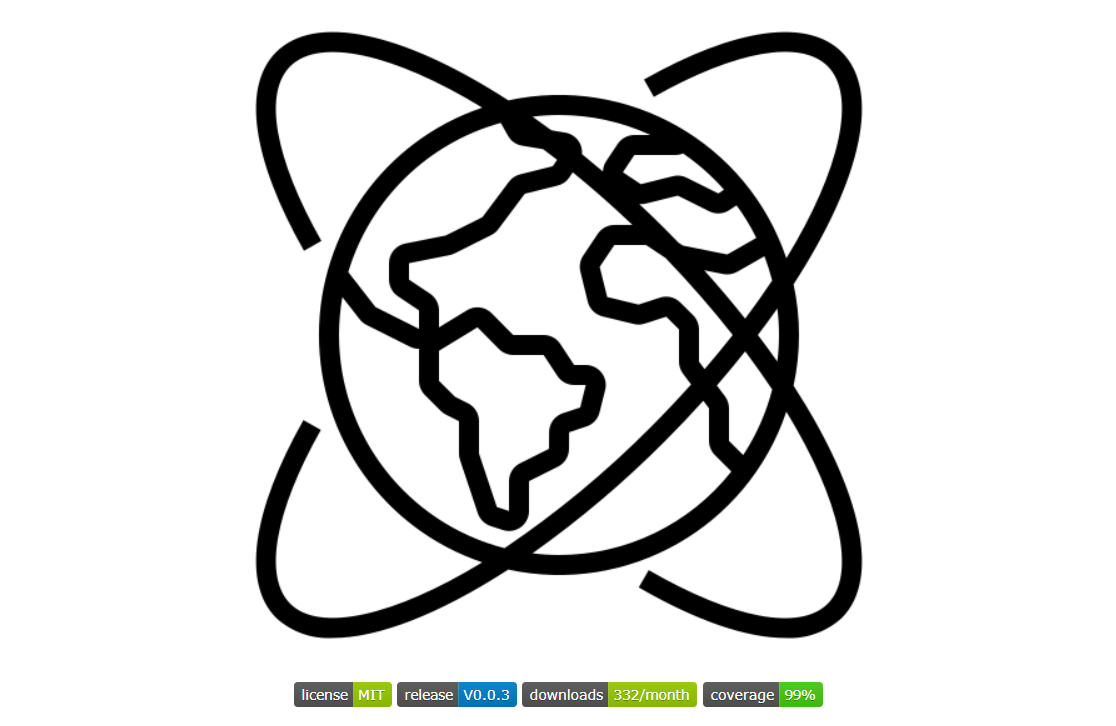
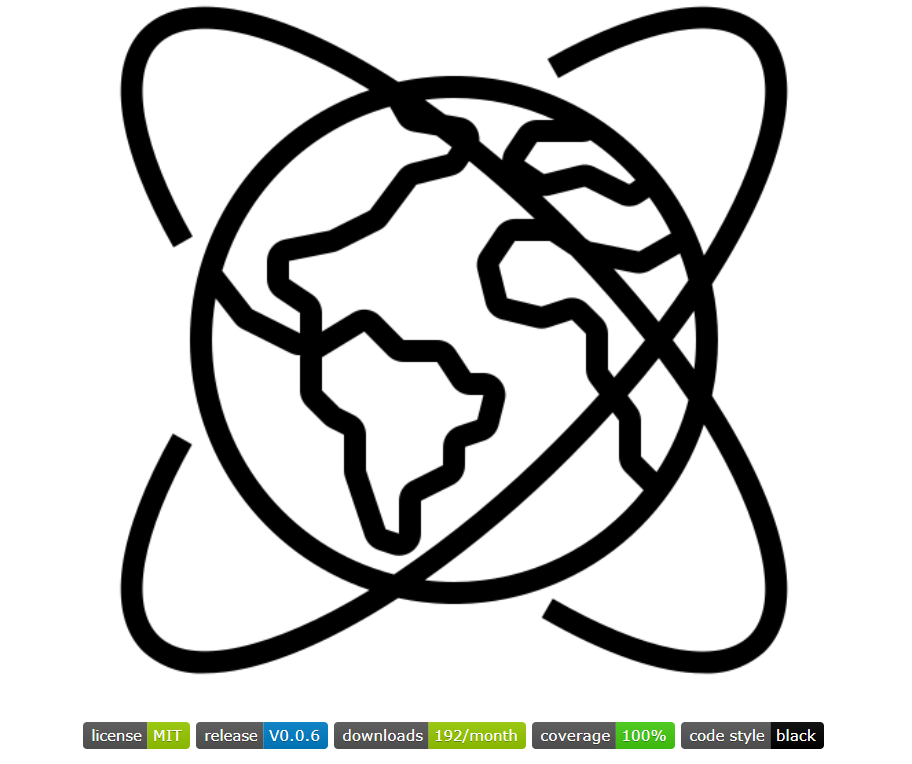
Update: translatable-enums version & image

Changed region(s): [[0.1228, 0.0, 0.8904, 0.9091], [0.0921, 0.9394, 0.9211, 1.0]]

diff --git a/client/src/config/data.js b/client/src/config/data.js
@@ -128,6 +128,10 @@ export const SKILLS = {
         name: 'Pydantic',
         level: 'advanced'
     },
+    selenium: {
+        name: 'Selenium',
+        level: 'intermediate'
+    },
     pytest: {
         name: 'Pytest',
         level: 'intermediate'
@@ -200,7 +204,7 @@ export const PROJECTS = [
     },
     {
         name: 'Translatable-Enums',
-        version: '0.0.3',
+        version: '0.0.6',
         image: process.env.PUBLIC_URL + '/images/project_2.png',
         stars: 2,
         description: 'Translatable-Enums is an i18n tool which uses built-in Enums as a convenient way to store translation keys.',

diff --git a/client/public/index.html b/client/public/index.html
@@ -7,7 +7,7 @@
     <meta name="theme-color" content="#000000"/>
     <meta
             name="description"
-            content="Web site created using create-react-app"
+            content="Nikolay's Python Developer Portfolio"
     />
     <title>%REACT_APP_BRAND%</title>
 </head>
